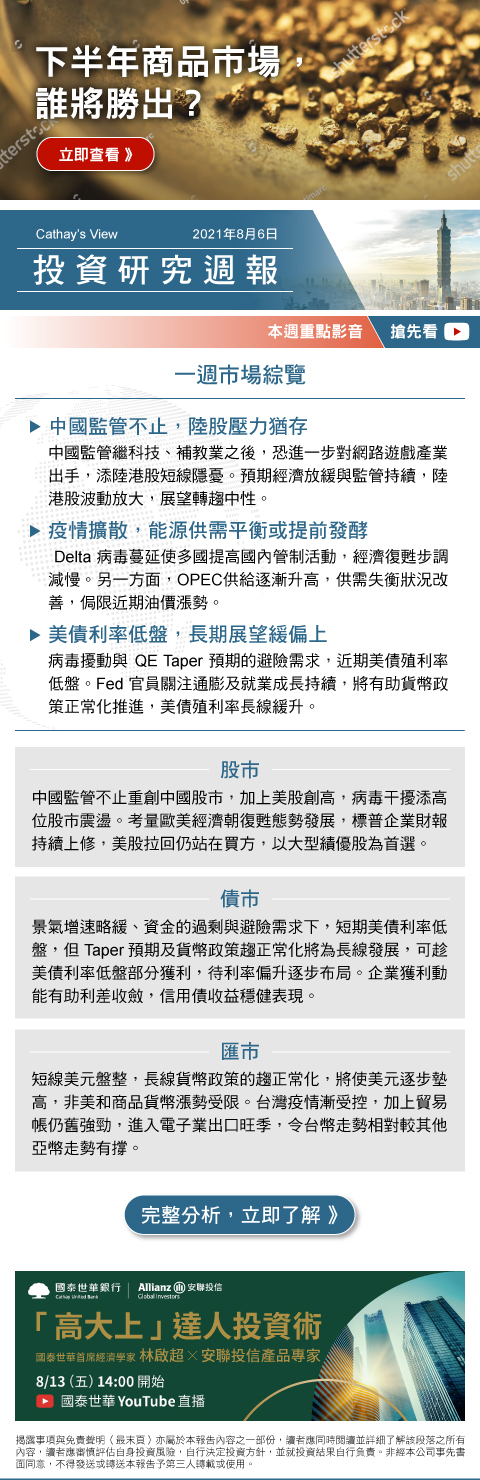
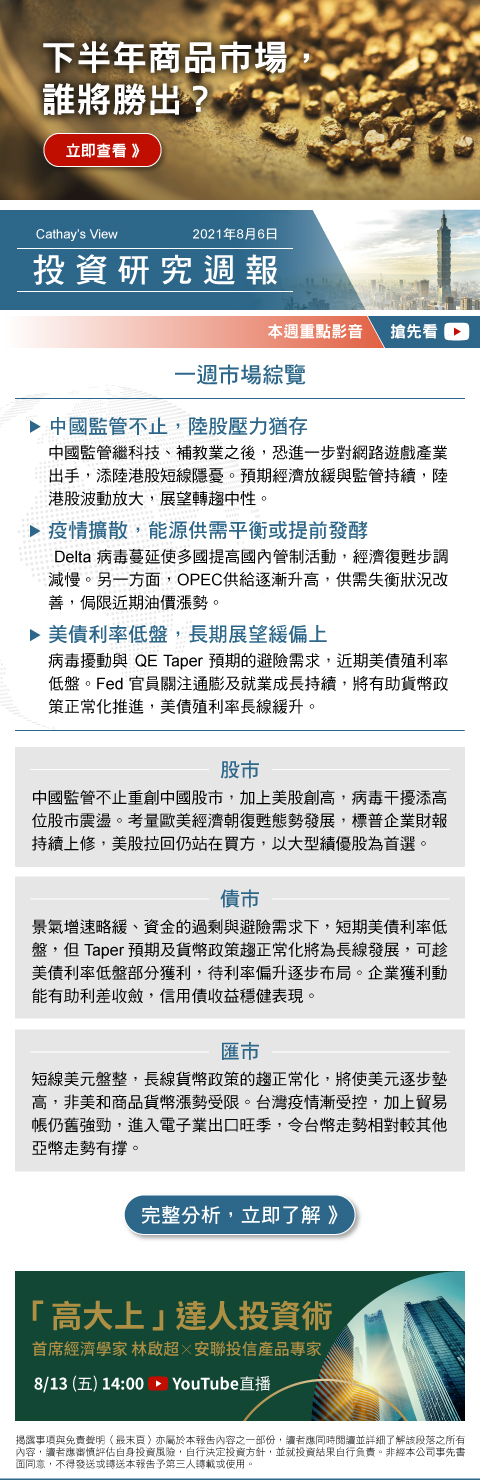
update

Changed region(s): [[0.0, 0.0, 1.0, 0.1554], [0.0625, 0.8703, 0.6875, 0.9635]]

diff --git a/Cathay-Weekly20210806/index.html b/Cathay-Weekly20210806/index.html
@@ -359,9 +359,9 @@ font-family:'Microsoft JhengHei',Arial,'微軟正黑體', sans-serif;
 
 <map name="Map">
   <area shape="rect" coords="2,1,479,200" href="https://www.cathaybk.com.tw/cathaybk/personal/wealth/market/report/monthly-topic/202108_a27_a28/?CUB_SRC=EDM&CUB_CHL1=URL&CUB_CHL2=01&MA_TK=WM509&CUB_DT=20210809" target="_blank" alt="下半年商品市場，誰將勝出？">
-  <area shape="rect" coords="2,208,477,347" href="https://youtu.be/V_WfMhwX7NA?CUB_SRC=EDM&CUB_CHL1=URL&CUB_CHL2=01&MA_TK=WM509&CUB_DT=20210809" target="_blank" alt="本週重點影音搶先看">
+  <area shape="rect" coords="2,209,477,348" href="https://youtu.be/V_WfMhwX7NA?CUB_SRC=EDM&CUB_CHL1=URL&CUB_CHL2=01&MA_TK=WM509&CUB_DT=20210809" target="_blank" alt="本週重點影音搶先看">
   <area shape="rect" coords="3,397,476,1252" href="https://www.cathaybk.com.tw/cathaybk/-/media/EE856AD558774E5EB6DB5620C6ED6426?CUB_SRC=EDM&CUB_CHL1=URL&CUB_CHL2=01&MA_TK=WM509&CUB_DT=20210809" target="_blank" alt="國泰世華投資研究週報20210806">
-  <area shape="rect" coords="2,1270,476,1421" href="https://survey.cathaybk.com.tw/s/AMGeR?CUB_SRC=EDM&CUB_CHL1=URL&CUB_CHL2=01&MA_TK=WM509&CUB_DT=20210809" target="_blank" alt="8.13(五) 「高大上」達人投資術立即報名">
+  <area shape="rect" coords="2,1270,476,1421" href="https://survey.cathaybk.com.tw/s/AMGeR?CUB_SRC=EDM&CUB_CHL1=URL&CUB_CHL2=01&MA_TK=WM509&CUB_DT=20210809" target="_blank" alt="8.13(五)「高大上」達人投資術 立即報名">
 </map>
 </body>
 
